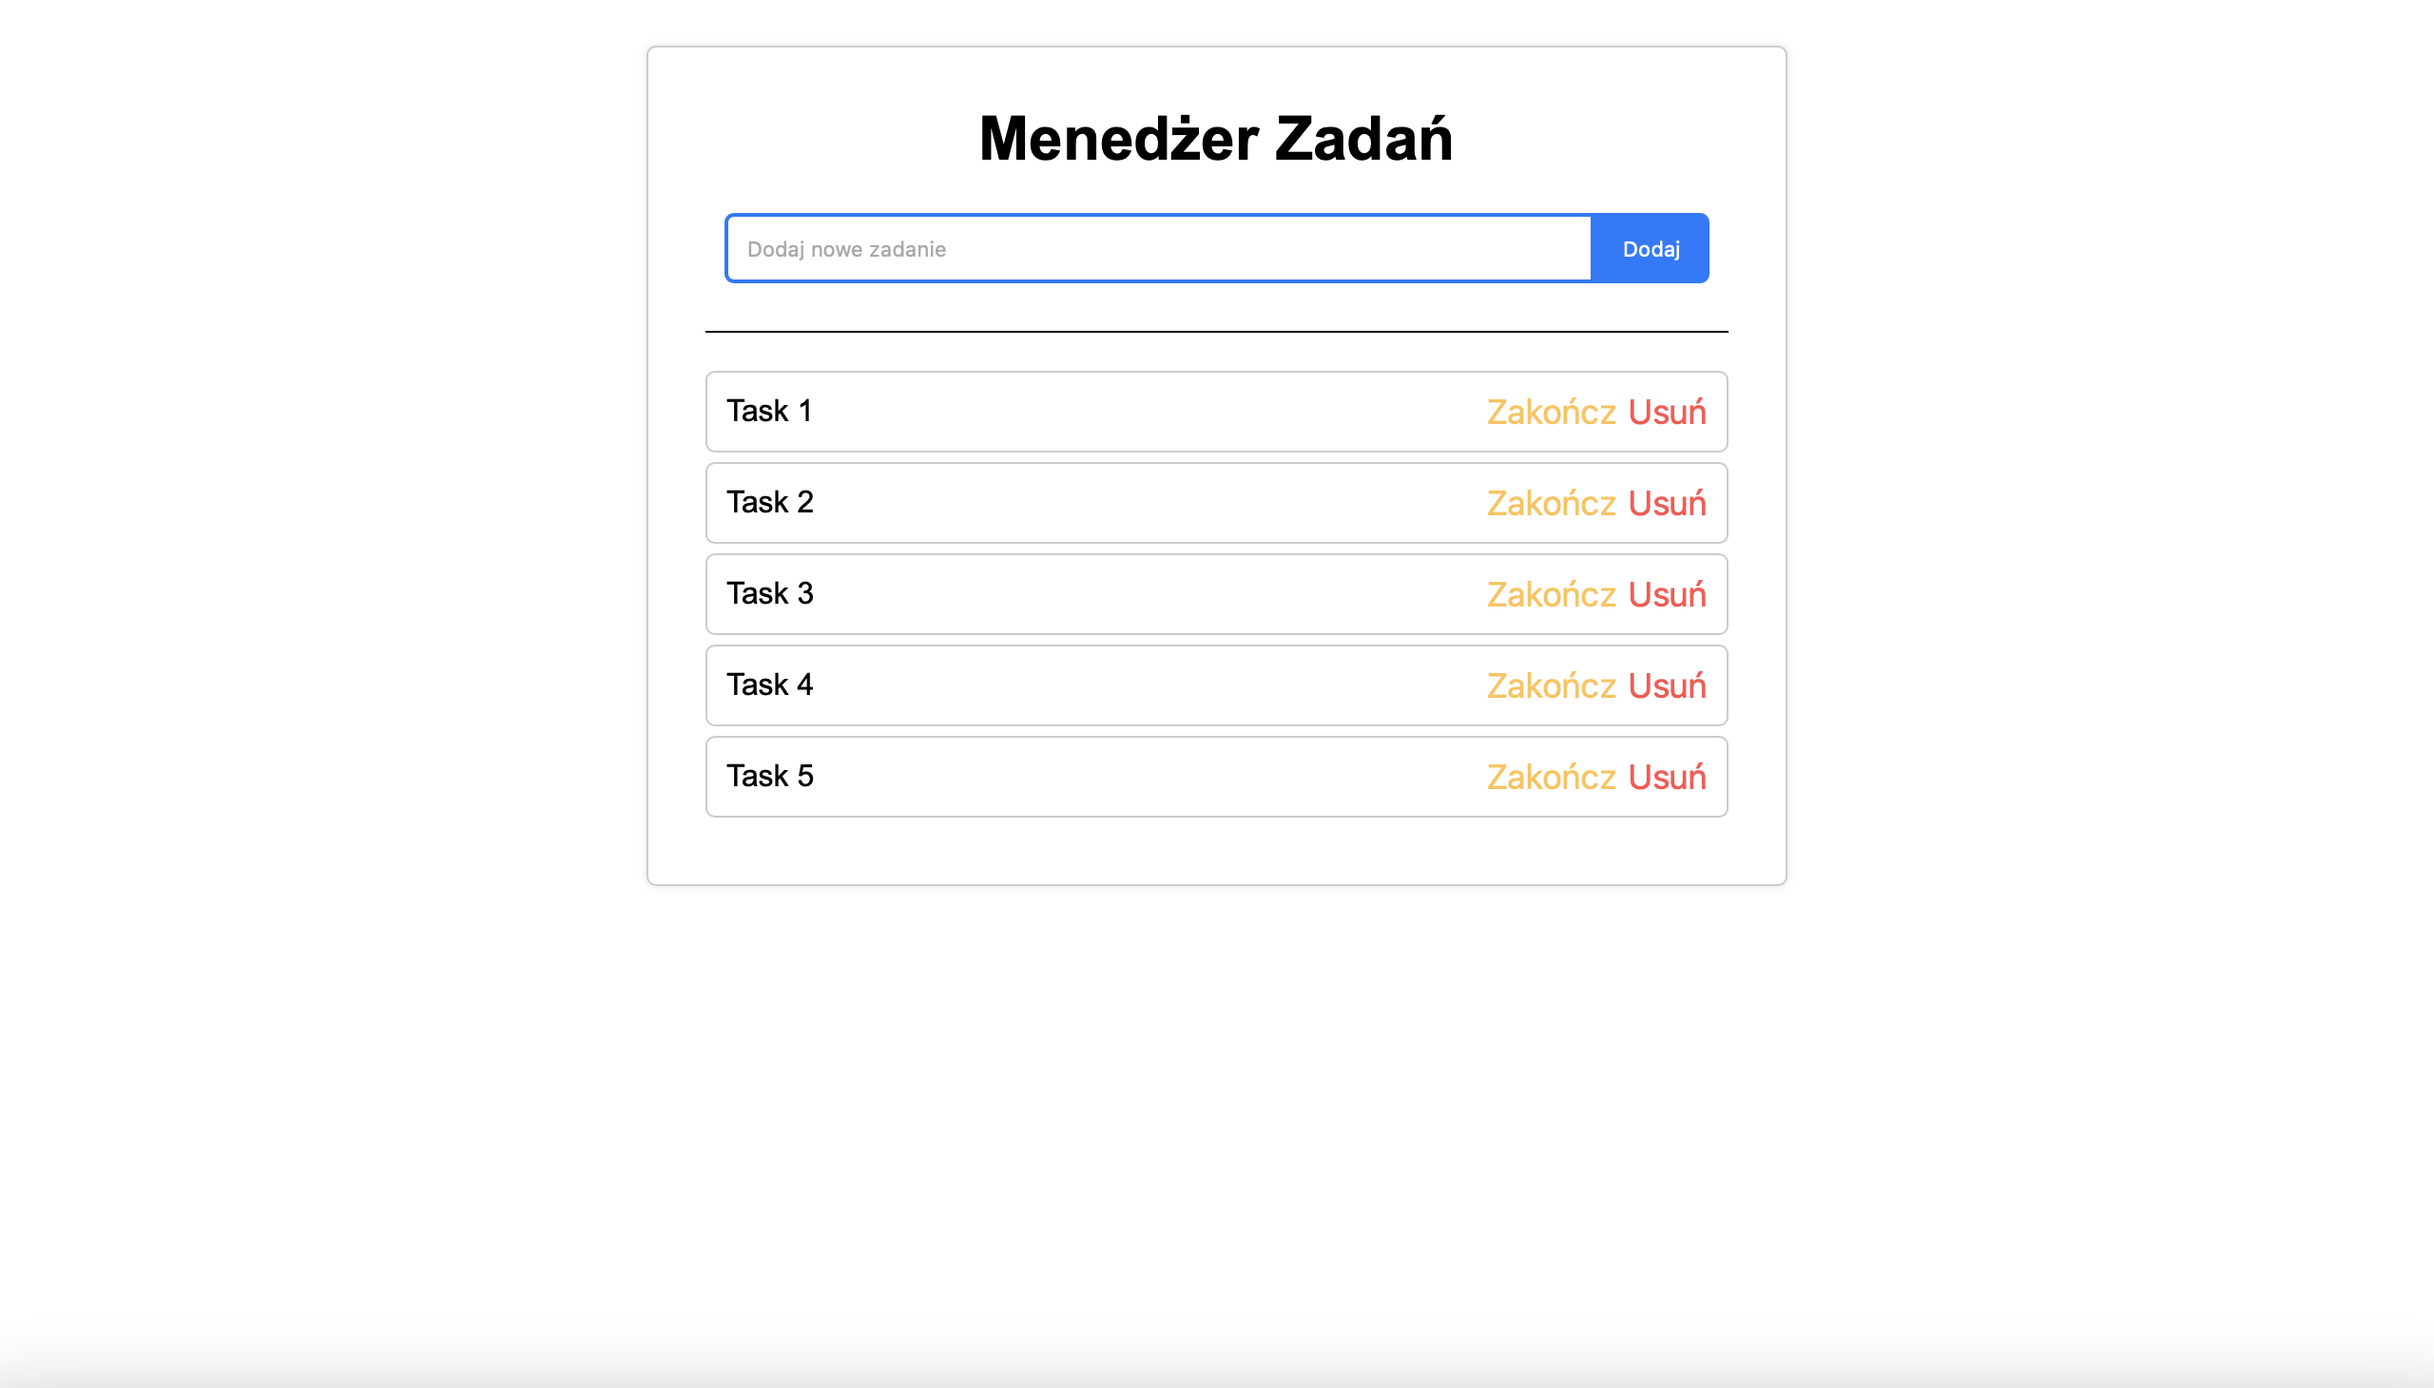
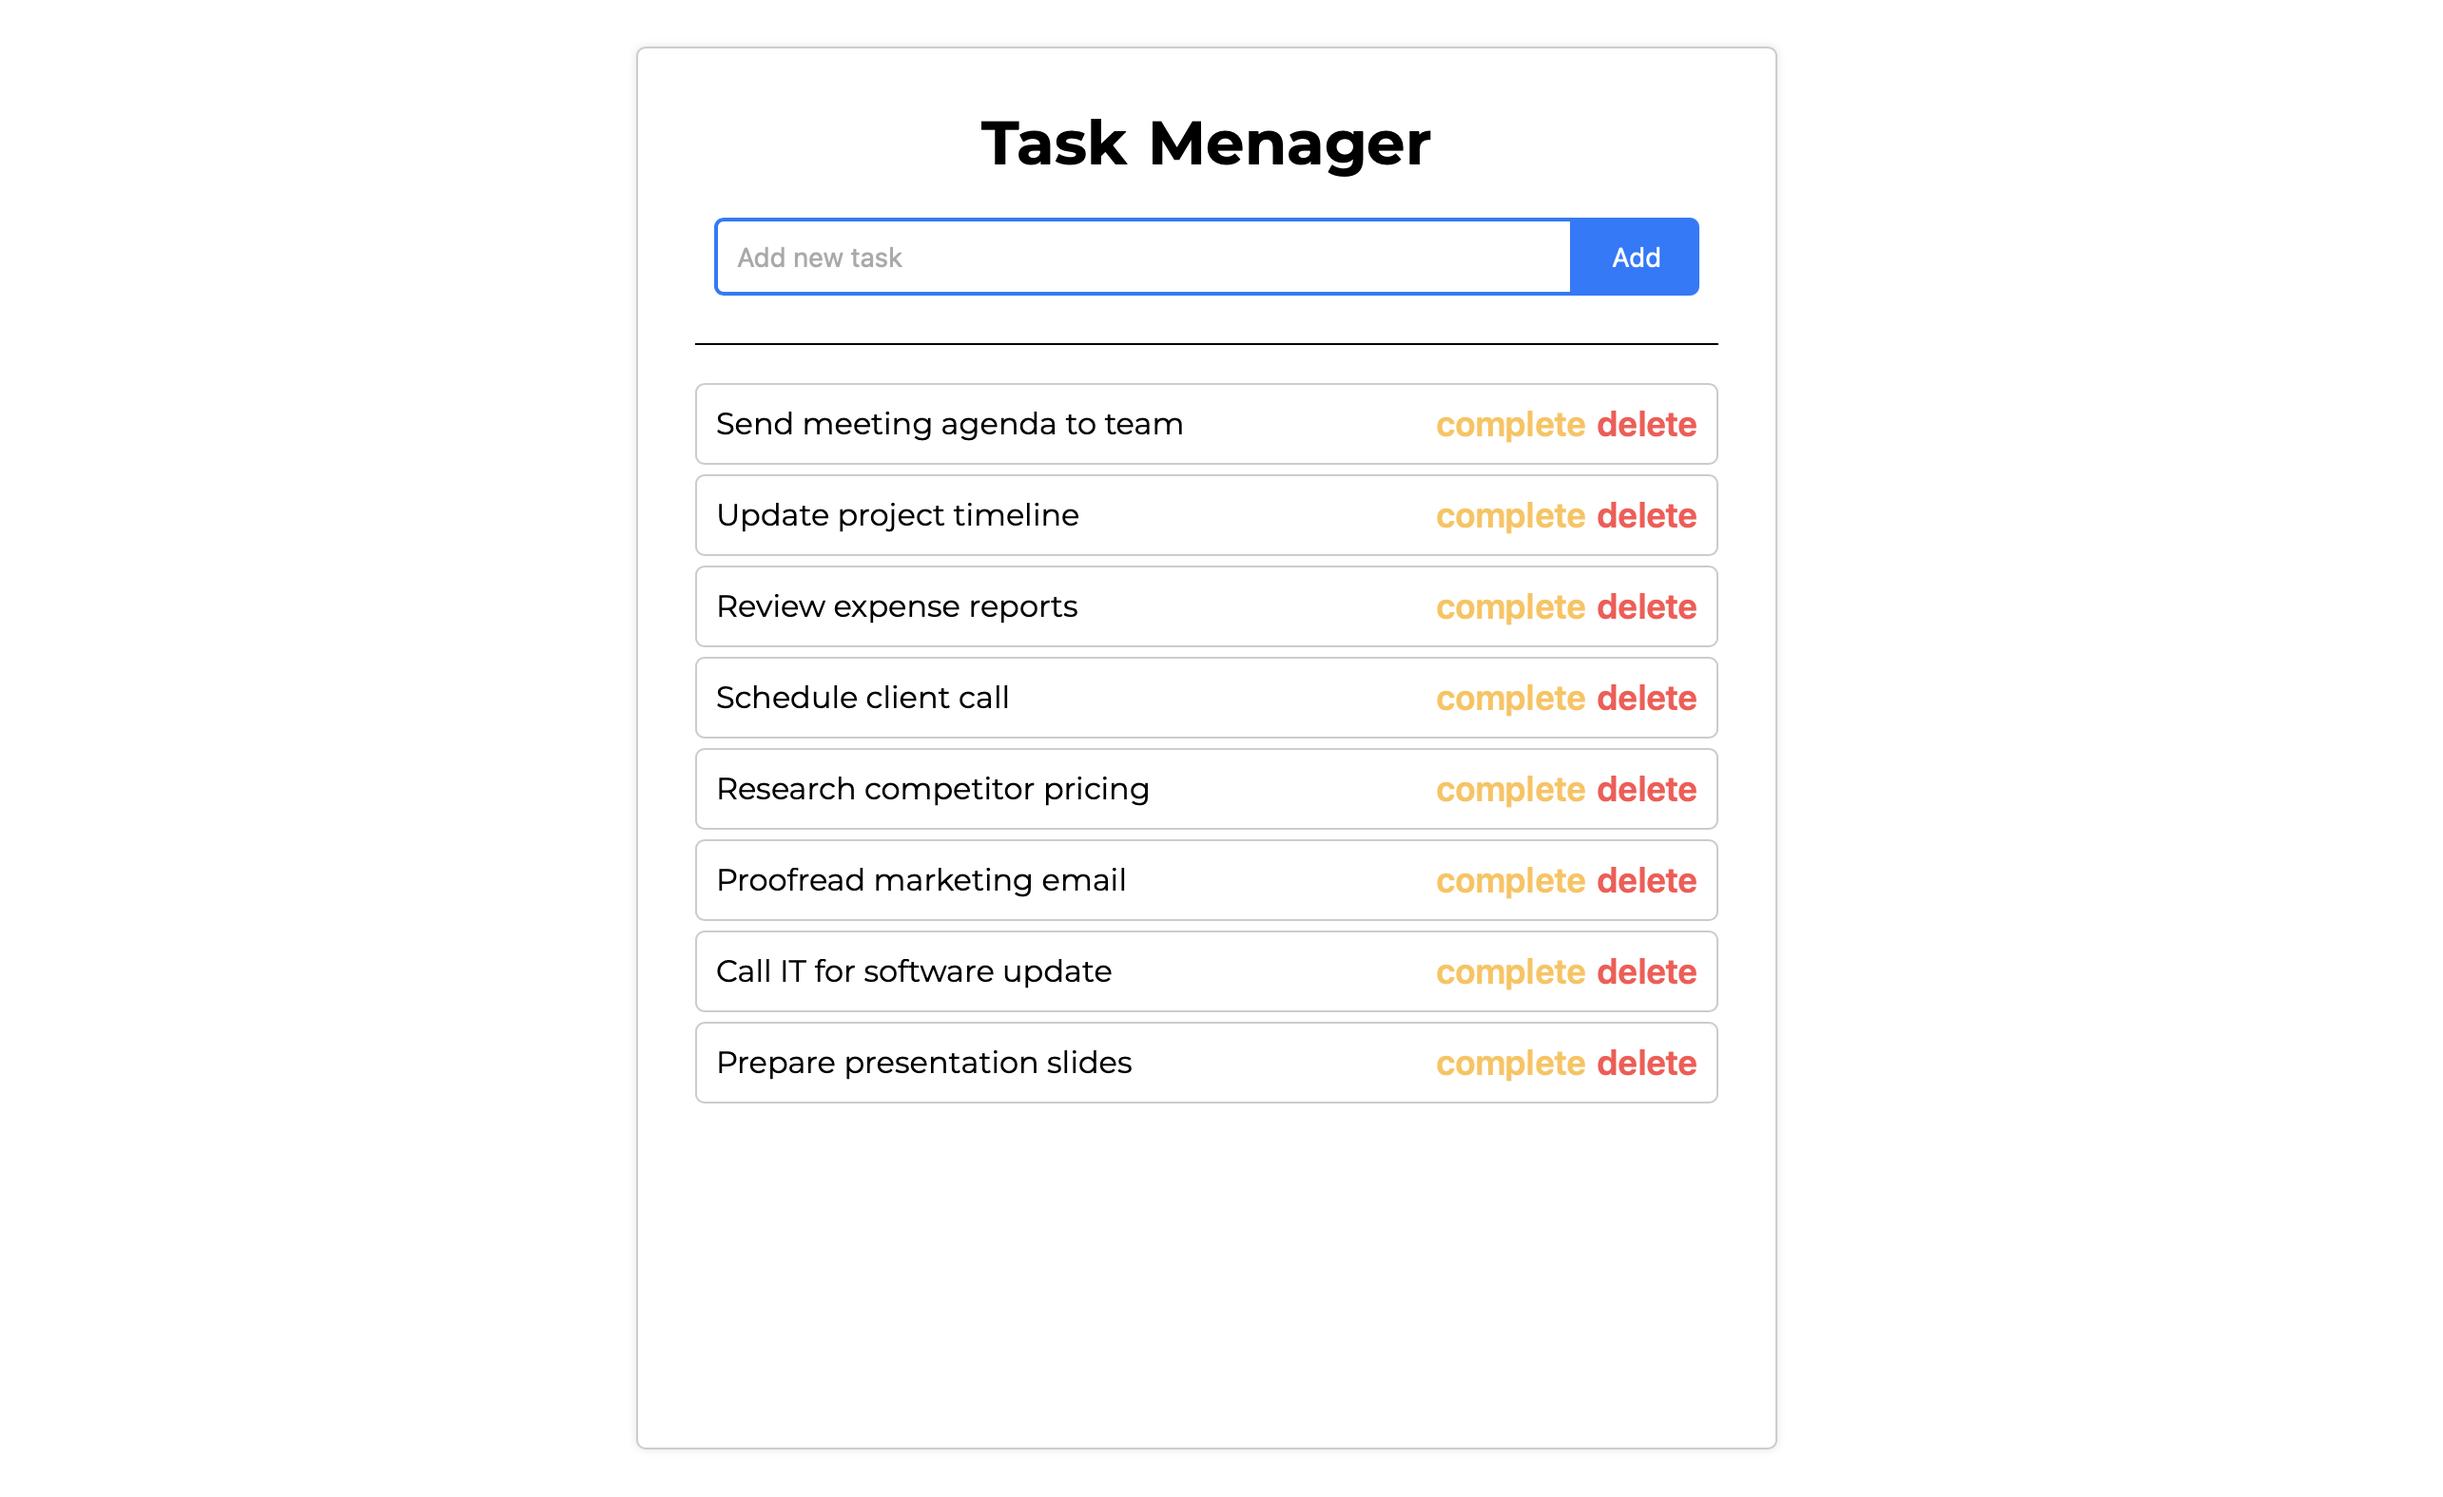
Fix issues in style, translate text from pl to en and update README.md

Changed region(s): [[0.2812, 0.2774, 0.7188, 0.7397], [0.2812, 0.0616, 0.7188, 0.2466], [0.25, 0.0308, 0.2812, 0.0616]]

diff --git a/css/style.css b/css/style.css
@@ -1,3 +1,3 @@
-*,::before,::after{box-sizing:border-box;margin:0;padding:0}body{height:100vh;font-family:Arial,sans-serif;text-align:center}.task-manager{max-width:600px;margin:30px auto;padding:30px;border:1px solid #ccc;border-radius:5px;box-shadow:0 0 5px rgba(0,0,0,.1);background-color:#fff}.task-input{margin:20px 0;padding:0 10px 25px 10px;display:flex;justify-content:center;align-items:center;border-bottom:1px solid #000}.task-input input{flex:1;padding:10px;border:2px solid #007bff;border-radius:5px 0 0 5px;outline:none}.task-input button{padding:12px 15px;background-color:#007bff;color:#fff;border:none;border-radius:0 5px 5px 0;transition:all .2s ease-in-out;cursor:pointer}.task-input button:active{background-color:rgba(0,123,255,.7294117647)}ul{list-style:none;padding:0}li{display:flex;justify-content:space-between;align-items:center;padding:10px;border:1px solid #ccc;margin:5px 0;background-color:#fff;border-radius:5px}li:hover{background-color:#f0f0f0}.completed{text-decoration:line-through;color:#999}.complete{margin:0 6px;color:#ffc250;background:none;border:none;cursor:pointer;font-size:18px}.delete{color:#ff5050;background:none;border:none;cursor:pointer;font-size:18px}@media(max-width: 768px){.task-manager{margin:10px 5px}.task-input{margin:10px 0}ul li{padding:5px}}
+*,::before,::after{box-sizing:border-box;margin:0;padding:0}body{height:100vh;font-family:"Montserrat",sans-serif;text-align:center}.tasks-title{text-transform:capitalize;word-spacing:2px;font-weight:700}.task-manager{max-width:600px;min-height:90vh;margin:30px auto;padding:30px;border:1px solid #ccc;border-radius:5px;box-shadow:0 0 5px rgba(0,0,0,.1);background-color:#fff}.task-input{margin:20px 0;padding:0 10px 25px 10px;display:flex;justify-content:center;align-items:center;border-bottom:1px solid #000}.task-input input{flex:1;padding:10px;border:2px solid #007bff;border-radius:5px 0 0 5px;font-size:14px;outline:none}.task-input button{padding:12px 20px;background-color:#007bff;color:#fff;border:none;border-radius:0 5px 5px 0;font-size:14px;transition:all .2s ease-in-out;cursor:pointer}.task-input button:active{background-color:rgba(0,123,255,.7294117647)}ul{list-style:none;padding:0}li{display:flex;justify-content:space-between;align-items:center;padding:10px;border:1px solid #ccc;margin:5px 0;background-color:#fff;border-radius:5px}li:hover{background-color:#f0f0f0}.completed{text-decoration:line-through;color:#999}.complete{margin:0 6px;color:#ffc250;background:none;border:none;cursor:pointer;font-size:18px;font-weight:600}.delete{color:#ff5050;background:none;border:none;cursor:pointer;font-size:18px;font-weight:600}@media(max-width: 768px){.task-manager{margin:10px 5px;padding:10px}.task-input{margin:10px 0}ul li{padding:5px}}
 
[2 lines of base64/hex data omitted]

diff --git a/js/app.js b/js/app.js
@@ -69,6 +69,7 @@ document.addEventListener("DOMContentLoaded", function () {
         }
     });
 
+    // Funkcja dodająca zadania do listy
     function addTask() {
         const taskText = taskInput.value;
         if (taskText.trim() === "") {
@@ -84,6 +85,7 @@ document.addEventListener("DOMContentLoaded", function () {
         saveTasks();
     }
 
+    // Funkcja generująca pojedyńcze zadania
     function createTaskItem(text, completed) {
         const taskItem = document.createElement("li");
         if (completed) {
@@ -92,8 +94,9 @@ document.addEventListener("DOMContentLoaded", function () {
         const span = document.createElement("span");
         span.textContent = text;
 
-        span.addEventListener("click", function () {
-            const newText = prompt("Edytuj treść zadania:", text);
+        // Funkcja obsługujaca edytowanie zadań
+        taskItem.addEventListener("dblclick", function () {
+            const newText = prompt("Edit task:", text);
             if (newText !== null) {
                 span.textContent = newText;
                 saveTasks();
@@ -101,18 +104,20 @@ document.addEventListener("DOMContentLoaded", function () {
         });
 
         const completeButton = document.createElement("button");
-        completeButton.textContent = "Zakończ";
+        completeButton.textContent = "complete";
         completeButton.classList.add("complete");
 
+        // Funkcja ustawiająca zadanie za zakończone
         completeButton.addEventListener("click", function () {
             taskItem.classList.toggle("completed");
             saveTasks();
         });
 
         const deleteButton = document.createElement("button");
-        deleteButton.textContent = "Usuń";
+        deleteButton.textContent = "delete";
         deleteButton.classList.add("delete");
 
+        // Funkcja usuwająca zadanie
         deleteButton.addEventListener("click", function () {
             taskList.removeChild(taskItem);
             saveTasks();

diff --git a/index.html b/index.html
@@ -2,22 +2,24 @@
 <html lang="en">
     <head>
         <meta charset="UTF-8" >
-        <meta
-            name="viewport"
-            content="width=device-width, initial-scale=1, maximum-scale=1, user-scalable=0"
-        >
-        <title>🚀 Menedżer Zadań: Zorganizuj Swój Dzień!</title>
+        <meta name="viewport" content="width=device-width, initial-scale=1, maximum-scale=1, user-scalable=0">
+        <link rel="preconnect" href="https://fonts.googleapis.com">
+        <link rel="preconnect" href="https://fonts.gstatic.com" crossorigin>
+        <link href="https://fonts.googleapis.com/css2?family=Montserrat:wght@400;600;700&display=swap" rel="stylesheet">
+        <title>🚀 Task Manager: Organize Your Day!</title>
         <link rel="stylesheet" href="css/style.css" >
     </head>
     <body>
         <div class="task-manager">
-            <h1>Menedżer Zadań</h1>
+            <h1 class="tasks-title">Task Menager</h1>
             <div class="task-input">
-                <input type="text" id="task" placeholder="Dodaj nowe zadanie">
-                <button id="add-task" type="button">Dodaj</button>
+                <input type="text" id="task" placeholder="Add new task">
+                <button id="add-task" type="button">Add</button>
             </div>
-            <ul id="task-list"></ul>
+            <ul id="task-list">
+                <!-- space for tasks -->
+            </ul>
         </div>
-        <script src="js/script.js"></script>
+        <script src="js/app.js"></script>
     </body>
 </html>

diff --git a/sass/style.scss b/sass/style.scss
@@ -8,12 +8,19 @@
 
 body {
     height: 100vh;
-    font-family: Arial, sans-serif;
+    font-family: "Montserrat", sans-serif;
     text-align: center;
+}
+
+.tasks-title {
+    text-transform: capitalize;
+    word-spacing: 2px;
+    font-weight: 700;
 }
 
 .task-manager {
     max-width: 600px;
+    min-height: 90vh;
     margin: 30px auto;
     padding: 30px;
     border: 1px solid #ccc;
@@ -35,15 +42,17 @@ body {
         padding: 10px;
         border: 2px solid #007bff;
         border-radius: 5px 0 0 5px;
+        font-size: 14px;
         outline: none;
     }
 
     button {
-        padding: 12px 15px;
+        padding: 12px 20px;
         background-color: #007bff;
         color: #fff;
         border: none;
         border-radius: 0 5px 5px 0;
+        font-size: 14px;
         transition: all 0.2s ease-in-out;
         cursor: pointer;
 
@@ -85,6 +94,7 @@ li {
     border: none;
     cursor: pointer;
     font-size: 18px;
+    font-weight: 600;
 }
 
 .delete {
@@ -93,11 +103,13 @@ li {
     border: none;
     cursor: pointer;
     font-size: 18px;
+    font-weight: 600;
 }
 
 @media (max-width: 768px) {
     .task-manager {
         margin: 10px 5px;
+        padding: 10px;
     }
 
     .task-input {

diff --git a/README.md b/README.md
@@ -14,6 +14,9 @@ If you want to see the project in action, you can visit the [Simple Task Manager
 
 The project uses the following technologies:
 
--   HTML
--   CSS
--   JavaScript
+-   HTML5
+-   CSS3
+-   SCSS (Preprocessor)
+-   JavaScript (ES6)
+-   NPM 10.2.4
+-   Google Fonts (for fonts)
